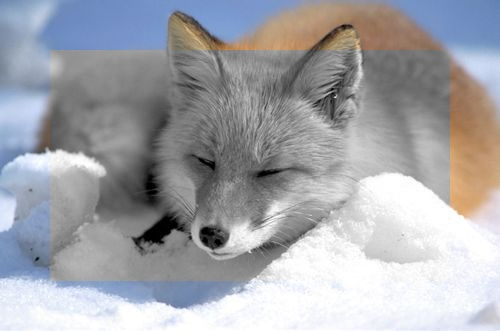
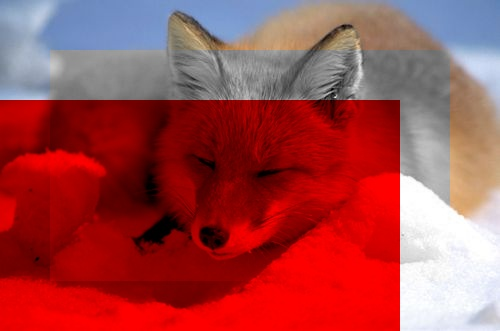
added multi-threading

diff --git a/ppfis.h b/ppfis.h
@@ -1,6 +1,14 @@
 #include <algorithm>
+#include <pthread.h>
 
 typedef unsigned char uchar;
+
+#define PPFIS_RUN_THREAD(thread, func, parameter) \
+if (err = pthread_create(&thread, nullptr, reinterpret_cast<void*(*)(void*)>(func), reinterpret_cast<void*>(parameter))) \
+    return false
+
+#define PPFIS_WAIT_THREAD(thread, return_target) \
+pthread_join(thread, (void**)return_target)
 
 namespace ppfis
 {
@@ -27,8 +35,21 @@ namespace ppfis
         inline bool operator==(const pixel& rhs) const { return x == rhs.x && y == rhs.y && z == rhs.z; }
     };
 
+    // change this later to masked_image, and contain image pointer too
+    // that way will be more flexible
     class mask
     {
+    private:
+        struct operate_thread_param
+        {
+            uchar* image;
+            int image_height;
+            int left, right, top, bottom;
+            void (*per_pixel_func)(pixel&);
+        };
+
+        static void operate_thread(operate_thread_param* param);
+
     public:
         int border_left = 0;
         int border_top = 0;
@@ -37,40 +58,48 @@ namespace ppfis
 
         inline mask(int width, int height) : border_right(width), border_bottom(height) {}
         inline mask(int border_left, int border_top, int border_right, int border_bottom) :
-        border_left(border_left), border_top(border_top),
-        border_right(border_right), border_bottom(border_bottom)
-        {}
-        void operate(uchar* image, int width, int height, void (*per_pixel_func)(pixel&)) const;
+        border_left(border_left), border_top(border_top), border_right(border_right), border_bottom(border_bottom) {}
+        bool operate(uchar* image, int image_width, int image_height, void (*per_pixel_func)(pixel& current_pixel)) const;
     };
 
-    inline void mask::operate(uchar* image, int width, int height, void (*per_pixel_func)(pixel&)) const
+    inline void mask::operate_thread(mask::operate_thread_param* param)
     {
-        // do nothing if there is no function
-        if (!per_pixel_func) return;
-
-        // map ranges due to borders
-        int right = std::min(std::max(border_left, border_right), width);
-        int left = std::max(std::min(border_left, right), 0);
-        int bottom = std::min(std::max(border_top, border_bottom), height);
-        int top = std::max(std::min(border_top, bottom), 0);
+        uchar*& image = param->image;
+        int& image_height = param->image_height;
+        int& left = param->left, &right = param->right, &top = param->top, &bottom = param->bottom;
+        void (*per_pixel_func)(pixel& current_pixel) = param->per_pixel_func;
 
         for (int r = left; r < right; ++r)
             for (int c = top; c < bottom; ++c)
-                per_pixel_func(*reinterpret_cast<pixel*>(&image[r * height * 3 + c * 3]));
+                per_pixel_func(*reinterpret_cast<pixel*>(&image[r * image_height * 3 + c * 3]));
     }
 
-    // example implementation of raw image processing
-    // example of masking is inside main.cpp!
-    inline void raw_grayscale(uchar* image, int width, int height)
+    inline bool mask::operate(uchar* image, int image_width, int image_height, void (*per_pixel_func)(pixel& current_pixel)) const
     {
-        for (int r = 0; r < width; ++r)
-        {
-            for (int c = 0; c < height; ++c)
-            {
-                pixel& curr_pixel = *reinterpret_cast<pixel*>(&image[r * height * 3 + c * 3]);
-                uchar gray = uchar((int(curr_pixel.r) + int(curr_pixel.g) + int(curr_pixel.b))/3);
-                curr_pixel = gray;
-            }            
-        }
+        // do nothing if there is no function
+        if (!per_pixel_func) return false;
+
+        int err = 0;
+        pthread_t thread_1, thread_2;
+
+        // map ranges due to borders
+        int right = std::min(std::max(border_left, border_right), image_width);
+        int left = std::max(std::min(border_left, right), 0);
+        int bottom = std::min(std::max(border_top, border_bottom), image_height);
+        int top = std::max(std::min(border_top, bottom), 0);
+
+        // temporary division just for two threads, will change later
+        int mid = (left + right) / 2;
+
+        operate_thread_param thread_param_1 = {image,image_height,left,mid,top,bottom,per_pixel_func};
+        operate_thread_param thread_param_2 = {image,image_height,mid,right,top,bottom,per_pixel_func};
+
+        PPFIS_RUN_THREAD(thread_1, &mask::operate_thread, &thread_param_1);
+        PPFIS_RUN_THREAD(thread_2, &mask::operate_thread, &thread_param_2);
+
+        PPFIS_WAIT_THREAD(thread_1, nullptr);
+        PPFIS_WAIT_THREAD(thread_2, nullptr);
+
+        return true;
     }
 }

diff --git a/main.cpp b/main.cpp
@@ -8,27 +8,10 @@ using namespace cv;
 using namespace ppfis;
 
 // compile with:
-// g++ main.cpp -o run.exe $(pkg-config opencv --cflags --libs) -std=c++11
+// g++ -pthread main.cpp -o run.exe $(pkg-config opencv --cflags --libs) -std=c++11
 
 int main(int argc, char** argv)
 {
-    // somehow, my laptop doesn't support video.
-    // please check if this works!
-    /*
-    if (argc != 2)
-    {
-        cout << "usage: " << argv[0] << " <Video_Path>" << endl;
-        return -1;
-    }
-
-    VideoCapture cap(argv[1]);
-
-    if (!cap.isOpened())
-    {
-        cout << "video file " << argv[1] << " could not be opened." << endl;
-        return -1;
-    }*/
-
     if (argc != 2)
     {
         cout << "usage: " << argv[0] << " <Image_Path>" << endl;
@@ -46,14 +29,19 @@ int main(int argc, char** argv)
 
     int width = image.rows, height = image.cols;
 
-    // raw_grayscale(image.data, width, height);
-
     // example of using mask to do grayscale
     mask m(50, 50, width - 50, height - 50);
     m.operate(image.data, width, height, [](pixel& p)
     {
         uchar gray = uchar((int(p.r) + int(p.g) + int(p.b))/3);
         p = gray;
+    });
+
+    // example of using mask to only show red
+    mask m2(100, 0, width, height - 100);
+    m2.operate(image.data, width, height, [](pixel& p)
+    {
+        p = {0,0,p.r};
     });
 
     imwrite("output.jpg", image);
